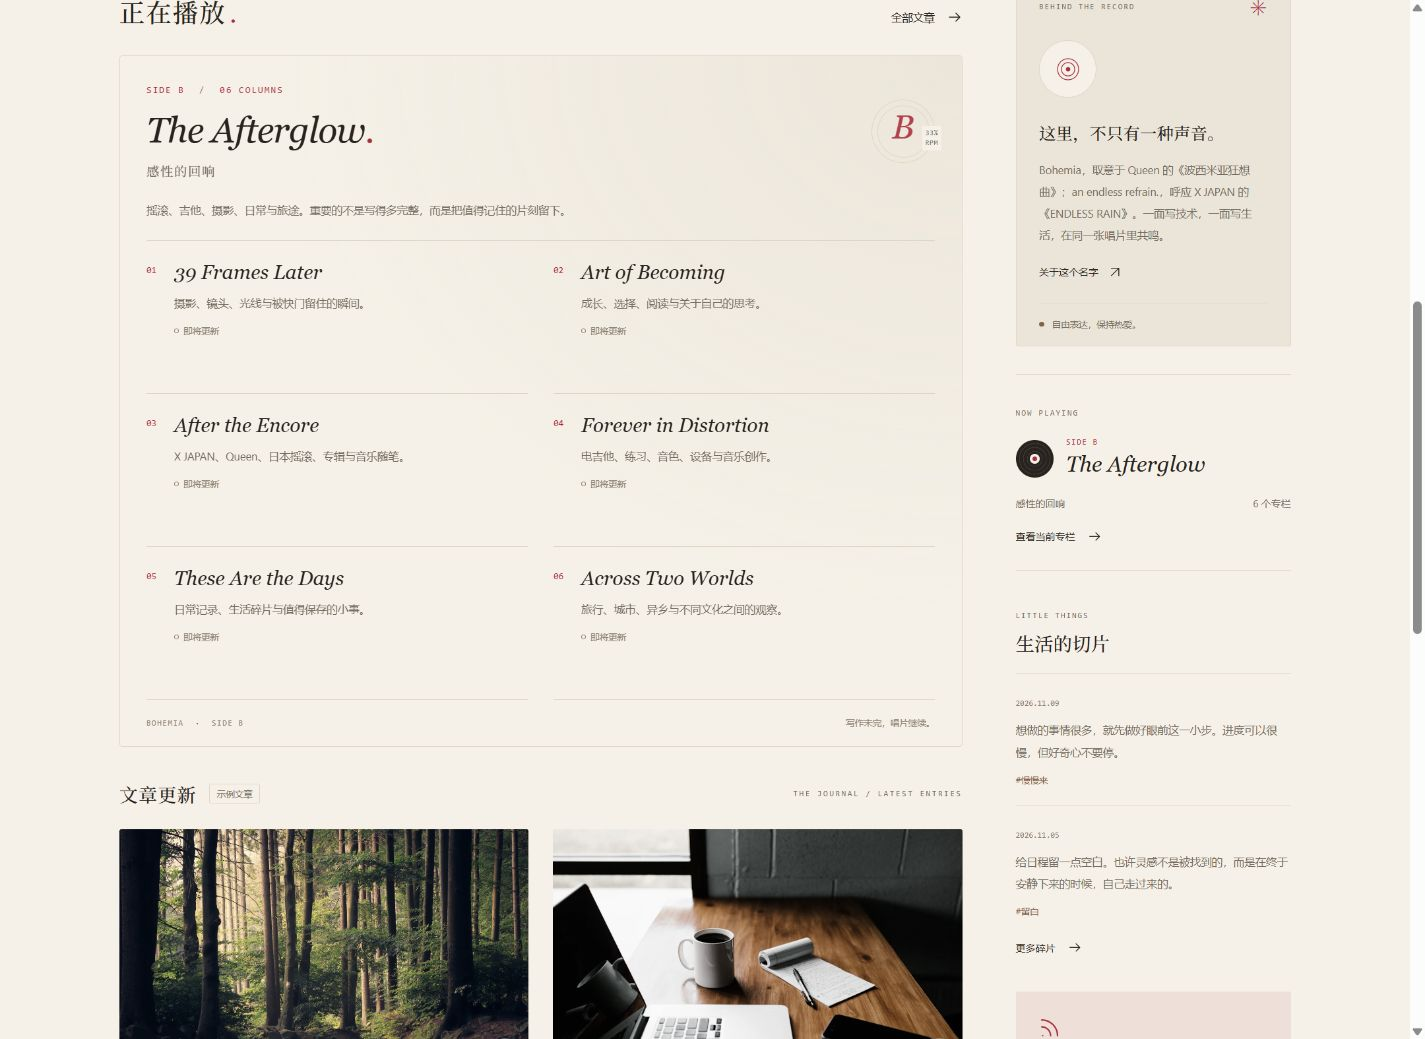
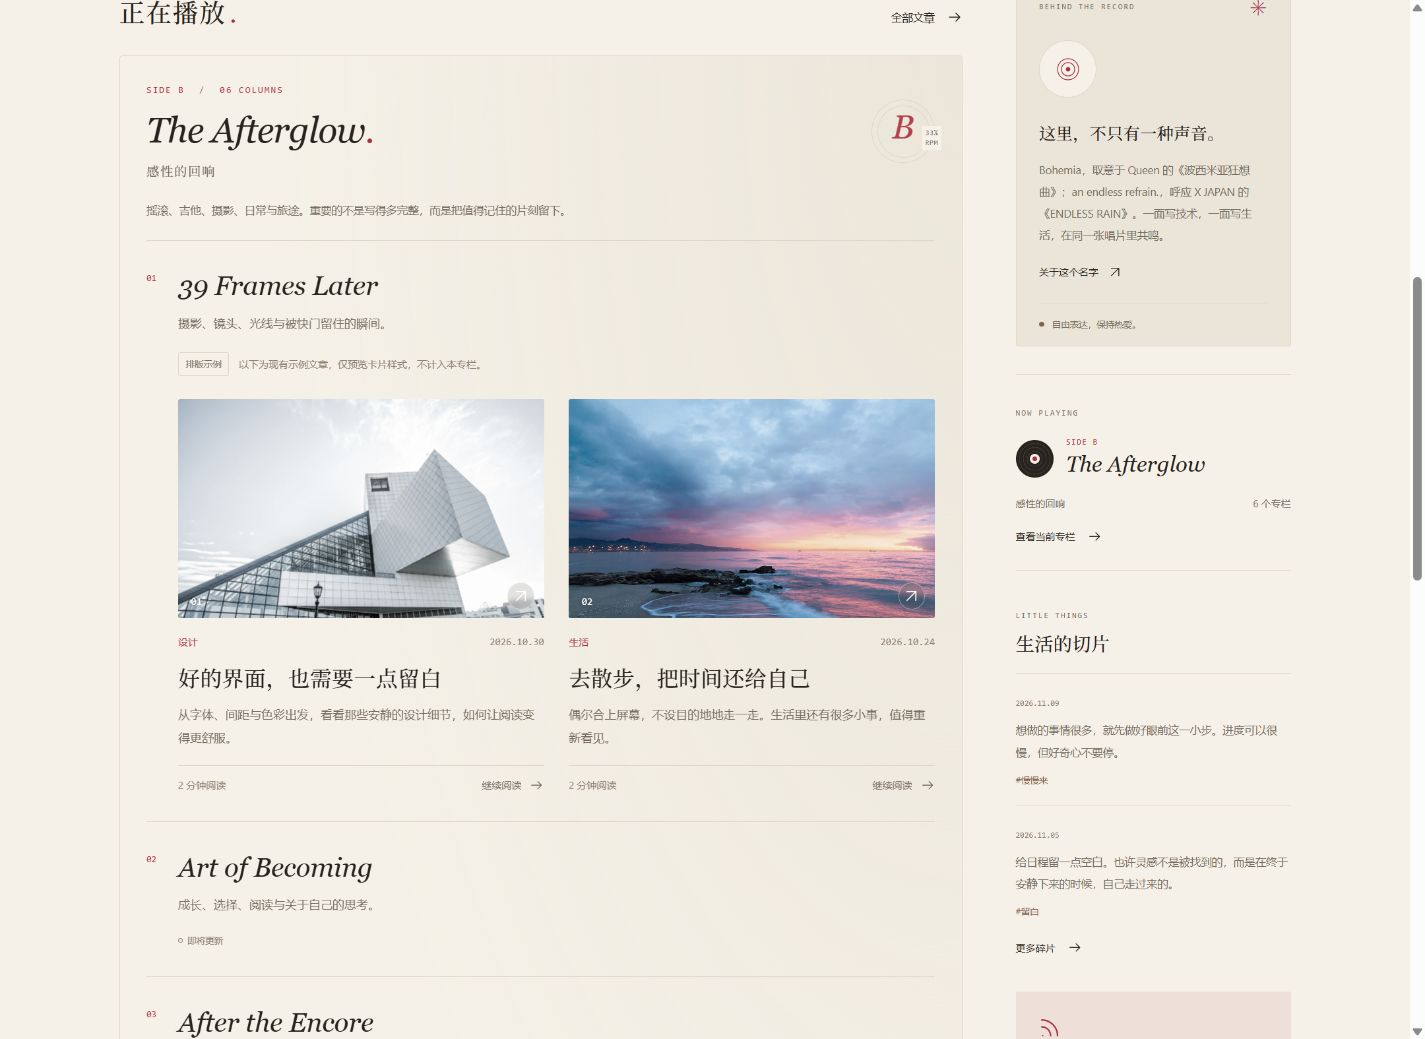
Show related article cards beneath each record column

diff --git a/src/styles/record.css b/src/styles/record.css
@@ -41,23 +41,29 @@
 .record-program-mark:before { content: ''; position: absolute; inset: 5px; border: 1px solid var(--line); border-radius: 50%; }
 .record-program-mark i { position: absolute; bottom: 12px; right: -7px; background: var(--paper); padding: 2px 3px; font: normal 7px/1.5 var(--mono); letter-spacing: .5px; color: var(--muted); }
 .record-program-intro { font-size: 11px; line-height: 1.9; color: var(--muted); margin-top: 20px; padding-bottom: 20px; border-bottom: 1px solid var(--line); }
-.record-columns { flex: 1; list-style: none; margin: 0; padding: 0; display: grid; grid-template-columns: repeat(2,minmax(0,1fr)); grid-auto-rows: 1fr; column-gap: 26px; }
-.record-column { min-width: 0; display: grid; grid-template-columns: 18px minmax(0,1fr); align-items: start; gap: 10px; padding: 19px 0 17px; border-bottom: 1px solid var(--line); }
+.record-columns { flex: 1; list-style: none; margin: 0; padding: 0; }
+.record-column { min-width: 0; padding: 27px 0 29px; border-bottom: 1px solid var(--line); }
+.record-column-header { display: grid; grid-template-columns: 20px minmax(0,1fr) auto; align-items: start; gap: 12px; }
 .record-column-number { font: 9px/1.8 var(--mono); color: var(--accent); margin-top: 3px; }
 .record-column-copy { min-width: 0; }
-.record-column h4 { font: italic 20px/1.35 Georgia, 'Times New Roman', serif; font-weight: 400; margin: 0; overflow-wrap: anywhere; text-wrap: pretty; }
+.record-column h4 { font: italic 27px/1.4 Georgia, 'Times New Roman', serif; font-weight: 400; margin: 0; overflow-wrap: anywhere; text-wrap: pretty; }
 .record-column h4 a > span { color: var(--accent); font: 12px var(--sans); }
-.record-column p { font-size: 11px; line-height: 1.9; color: var(--muted); margin-top: 7px; text-wrap: pretty; }
-.record-column-upcoming, .record-column-available { display: inline-flex; align-items: center; gap: 5px; font-size: 9px; line-height: 1.6; margin-top: 10px; color: var(--faint); }
+.record-column-copy > p { font-size: 12px; line-height: 1.9; color: var(--muted); margin-top: 7px; text-wrap: pretty; }
+.record-column-upcoming { display: inline-flex; align-items: center; gap: 5px; font-size: 9px; line-height: 1.6; color: var(--faint); }
 .record-column-upcoming:before { content: ''; width: 3px; height: 3px; border: 1px solid currentColor; border-radius: 50%; }
-.record-column-available { color: var(--accent); }
+.record-column-more { justify-self: end; margin-top: 9px; white-space: nowrap; font-size: 10px; color: var(--accent); }
+.record-column-empty { margin-top: 12px; padding-left: 32px; }
+.record-column-preview-note { display: flex; align-items: center; flex-wrap: wrap; gap: 8px 10px; margin-top: 18px; padding-left: 32px; color: var(--faint); font-size: 10px; line-height: 1.9; }
+.record-column-articles { display: grid; grid-template-columns: repeat(2,minmax(0,1fr)); gap: 30px 25px; margin-top: 23px; padding-left: 32px; }
+.record-column-articles .post-card { display: flex; flex-direction: column; }
+.record-column-articles .post-image-link { flex-shrink: 0; }
+.record-column-articles .post-card-title { font-family: var(--serif); font-size: 22px; font-weight: 500; line-height: 1.75; letter-spacing: .2px; margin: 10px 0 0; }
+.record-column-articles .post-card > p { font-size: 12px; line-height: 1.95; margin-bottom: 16px; }
+.record-column-articles .post-card-meta { font-size: 10px; }
+.record-column-articles .post-card-bottom { font-size: 10px; margin-top: auto; }
 .record-program-footer { display: flex; justify-content: space-between; align-items: center; gap: 15px; padding-block: 17px; color: var(--faint); font-size: 9px; }
 .record-program-footer > span:first-child { font-family: var(--mono); font-size: 8px; letter-spacing: 1px; }
 .record-program-footer > span:first-child > span { margin-inline: 6px; color: var(--accent); }
-.record-article-flow { margin-top: 34px; }
-.record-flow-heading { display: flex; align-items: center; gap: 13px; margin-bottom: 22px; }
-.record-flow-heading h3 { font-family: var(--serif); font-size: 19px; font-weight: 500; letter-spacing: .5px; }
-.record-flow-heading .eyebrow { margin-left: auto; font-size: 8px; }
 .record-now-playing { padding-block: 26px; margin-top: 28px; border-block: 1px solid var(--line); }
 .record-now-playing > .eyebrow { font-size: 8px; letter-spacing: 1.4px; }
 .record-now-playing-head { display: flex; align-items: center; gap: 13px; margin-top: 17px; }
@@ -71,8 +77,9 @@
 @media (max-width:1100px) {
   .record-program { padding: 23px 22px 0; }
   .record-program-header h3 { font-size: 31px; }
-  .record-column h4 { font-size: 19px; }
-  .record-columns { column-gap: 20px; }
+  .record-column h4 { font-size: 25px; }
+  .record-column-articles { column-gap: 21px; }
+  .record-column-articles .post-card-title { font-size: 20px; }
 }
 @media (min-width:601px) and (max-width:850px) {
   .record-home .journal-layout { grid-template-columns: minmax(0,1fr); }
@@ -95,16 +102,20 @@
   .record-program-mark i { font-size: 6px; bottom: 7px; }
   .record-program-heading { font-size: 12px; }
   .record-program-intro { font-size: 11px; margin-top: 18px; padding-bottom: 18px; }
-  .record-columns { grid-template-columns: minmax(0,1fr); }
-  .record-column { grid-template-columns: 19px minmax(0,1fr); gap: 12px; padding: 18px 0; }
-  .record-column h4 { font-size: 21px; }
-  .record-column p { font-size: 11px; line-height: 1.9; }
+  .record-column { padding: 23px 0 26px; }
+  .record-column-header { grid-template-columns: 18px minmax(0,1fr); gap: 12px; }
+  .record-column h4 { font-size: 24px; }
+  .record-column-copy > p { font-size: 11px; line-height: 1.9; }
+  .record-column-more { grid-column: 2; justify-self: start; margin-top: 0; }
+  .record-column-empty { padding-left: 30px; }
+  .record-column-preview-note { padding-left: 0; margin-top: 16px; font-size: 9px; }
+  .record-column-articles { grid-template-columns: minmax(0,1fr); padding-left: 0; gap: 30px; margin-top: 19px; }
+  .record-column-articles .post-image-link { aspect-ratio: 1.67; }
+  .record-column-articles .post-card-title { font-size: 21px; }
+  .record-column-articles .post-card > p { font-size: 12px; }
+  .record-column-articles .post-card-meta, .record-column-articles .post-card-bottom { font-size: 9px; }
   .record-program-footer { font-size: 8px; gap: 9px; }
   .record-program-footer > span:first-child { font-size: 7px; letter-spacing: .5px; }
-  .record-article-flow { margin-top: 28px; }
-  .record-flow-heading { gap: 10px; }
-  .record-flow-heading h3 { font-size: 18px; }
-  .record-flow-heading .eyebrow { display: none; }
   .record-home .record-now-playing { margin-top: 0; padding-top: 0; border-top: 0; }
   .record-now-playing-head h2 { font-size: 20px; }
   .record-now-playing-caption { flex-direction: column; gap: 4px; }
@@ -113,7 +124,7 @@
   .record-program { padding-inline: 17px; }
   .record-program-header h3 { font-size: 28px; }
   .record-program-mark { width: 45px; height: 45px; font-size: 25px; }
-  .record-column h4 { font-size: 20px; }
+  .record-column h4 { font-size: 22px; }
   .record-toggle { min-width: 105px; }
 }
 @media (prefers-reduced-motion:reduce) {

diff --git a/src/lib/record.ts b/src/lib/record.ts
@@ -7,3 +7,13 @@ export type RecordSide = (typeof recordSides)[number];
 export type RecordTrack = RecordSide['tracks'][number];
 export const columnSlugs = new Set(recordSides.flatMap(side => side.tracks.map(track => track.slug)));
 export const columnPosts = (posts: Post[], slug: string) => posts.filter(post => post.data.column === slug && !post.data.demo);
+export const COLUMN_ARTICLE_LIMIT = 4;
+
+/** Layout examples remain demos and never become column membership or archive counts. */
+export const columnLayoutExamples = (posts: Post[], track: RecordTrack) => {
+  const ids = 'layoutPreviewPosts' in track ? track.layoutPreviewPosts : [];
+  return (ids || []).flatMap(id => {
+    const post = posts.find(post => post.id === id && post.data.demo);
+    return post ? [post] : [];
+  }).slice(0, COLUMN_ARTICLE_LIMIT);
+};

diff --git a/README.md b/README.md
@@ -14,6 +14,8 @@
 
 [Side A 专栏](docs/record-side-a-columns.jpg) · [Side B 专栏](docs/record-side-b-columns.jpg) · [Side B 封面](docs/record-side-b.jpg)
 
+[手机专栏排版](docs/columns-mobile.jpg) · [平板深色排版](docs/columns-tablet-dark.jpg)
+
 ## 本地运行
 
 推荐 Node.js 24 LTS。已在本机 Node.js 22.14.0 上通过构建与功能检查；当前字体工具的间接依赖会提示 Node.js 22.19.0 的引擎要求，安装新环境时请优先使用 Node.js 24。
@@ -65,6 +67,10 @@ npm run preview  # 预览已经构建的网站
 ### 将文章收入专栏
 
 14 个专栏及其说明统一保存在 `src/data/tracklist.json`。专栏是长期写作方向，不是已经发布的文章；没有文章的栏目显示「即将更新」，不会生成空链接。
+
+每个专栏横向占满内容区，标题与中文说明下展示最近最多 4 篇相关文章。桌面为两列图片卡片，手机为单列；「全部文章」链接进入该专栏归档。首页不再另列一份重复的文章卡片流。
+
+目前两面各一个专栏配置了 `layoutPreviewPosts`，使用现有示例文章演示排版，并显示「排版示例／不计入本专栏」说明。这些 ID 不会修改文章归属、生成专栏归档或计入正式文章数量；一旦该专栏有真实文章，排版示例会自动让位。其余空专栏继续显示「即将更新」。
 
 在真实文章的 frontmatter 中增加 `column: "wish-you-were-real"`（或其他栏目 slug），同时保持 `draft: false`、`demo: false`。构建会自动生成 `columns/wish-you-were-real/`，汇总该专栏所有已发布文章。未声明 `column` 的原有示例不会被强行归类；未知栏目 slug 会在内容检查时报告错误。
 
